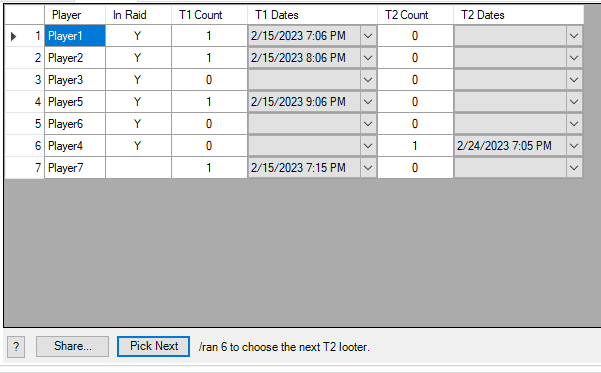
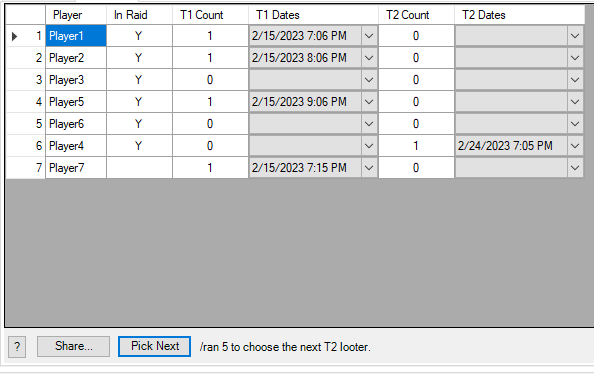
fix pick next for T2

diff --git a/RoRParcel.cs b/RoRParcel.cs
@@ -449,10 +449,15 @@ namespace ACT_RoR_Parcels
                 if (looterList[0].InRaid == 1)
                 {
                     int lowest = looterList[0].T1Count;
+                    if (sortFor == "T2")
+                        lowest = looterList[0].T2Count;
                     int i = 1;
                     for (; i < looterList.Count; i++)
                     {
-                        if (looterList[i].T1Count > lowest || looterList[i].InRaid < 1)
+                        int count = looterList[i].T1Count;
+                        if (sortFor == "T2")
+                            count = looterList[i].T2Count;
+                        if (count > lowest || looterList[i].InRaid < 1)
                             break;
                     }
                     labelInstructions.Text = $"/ran {i} to choose the next {sortFor} looter.";
